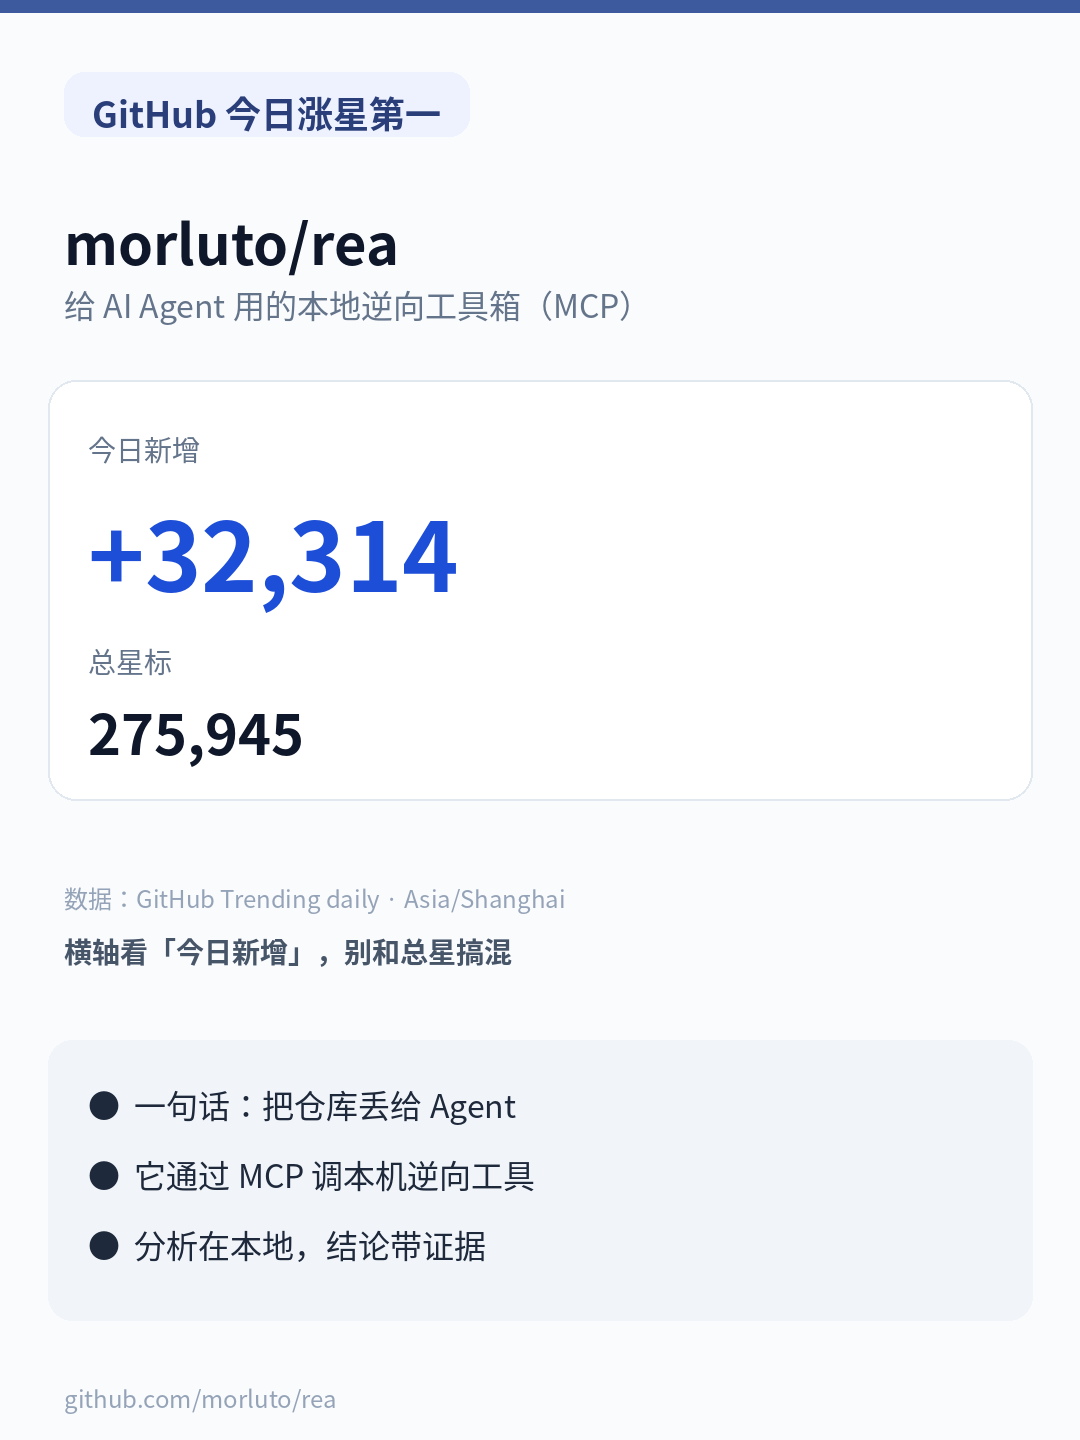
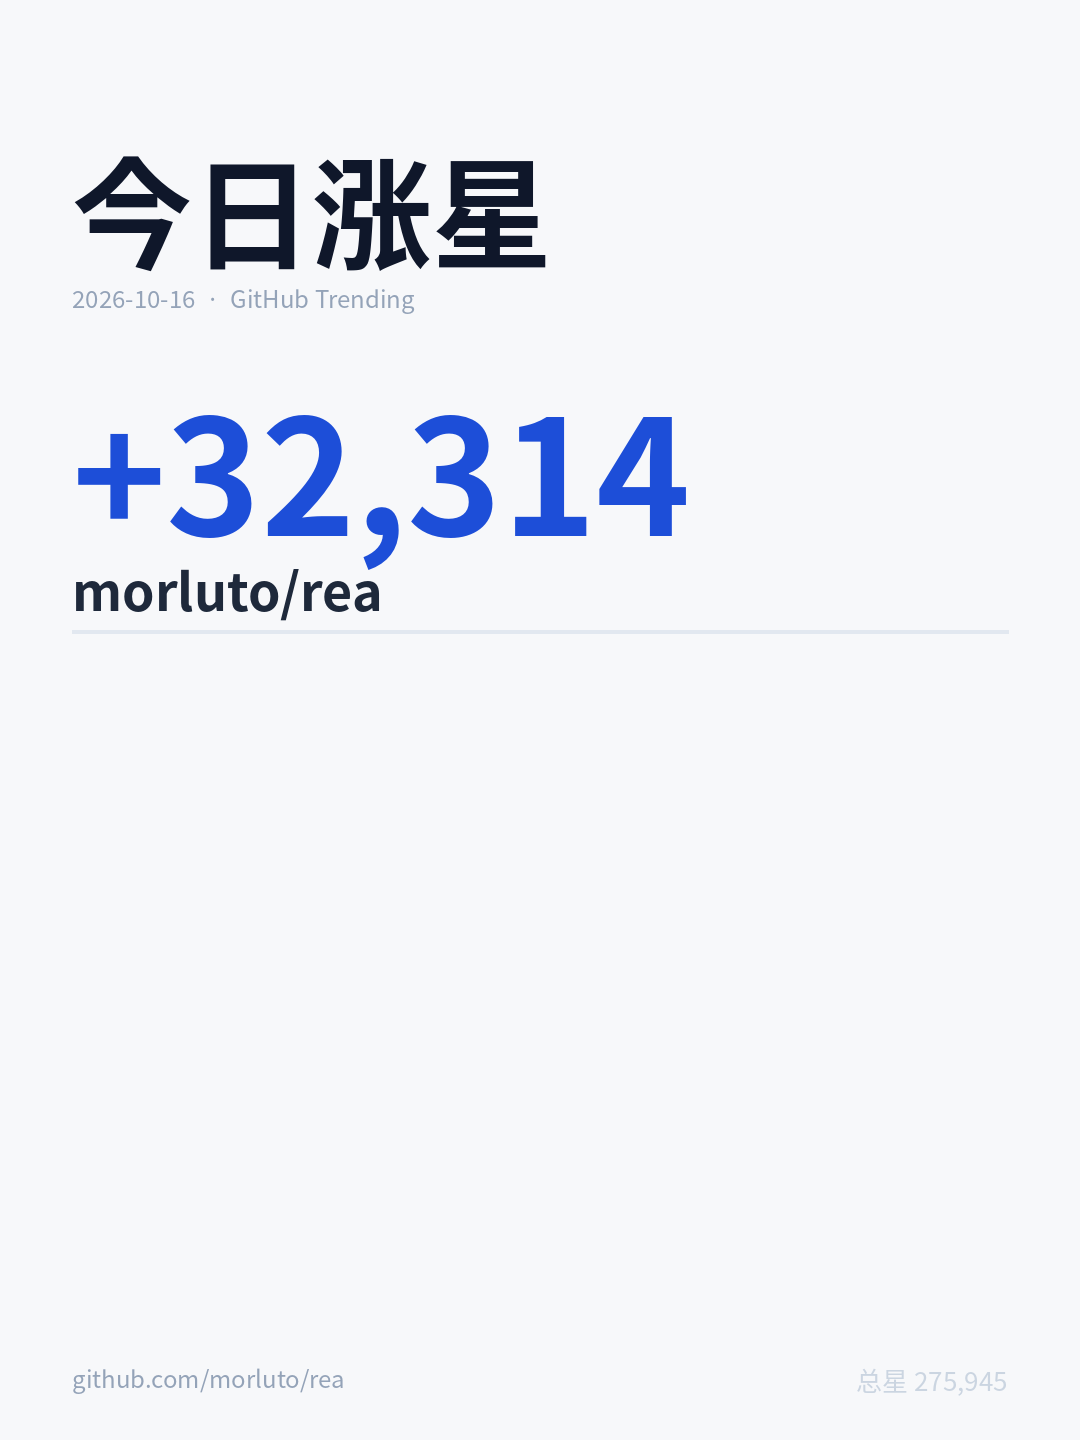
Simplify cards: bold「今日涨星」, drop helper captions
- Chart/rank: title「今日涨星」, bar labels +32k, no「不是总星」axis
- Focus: huge title + +32,314; repo smaller; faint 总星 corner only
- Keep howto/demo unchanged

diff --git a/fetch_trending_chart.py b/fetch_trending_chart.py
@@ -92,11 +92,6 @@ def format_stars(n: int) -> str:
     return f"+{n}"
 
 
-def format_today_label(n: int) -> str:
-    """Bar label: 今日 +xx (explicitly today's gain, not total stars)."""
-    return f"今日 {format_stars(n)}"
-
-
 def _rank_colors(n: int) -> list[str]:
     """Light blue → indigo gradient; top rank (index 0 before reverse) darkest."""
     # matplotlib LinearSegmentedColormap without importing colors module name clutter
@@ -159,16 +154,15 @@ def plot_chart(repos: list[dict], out_path: Path, top_n: int, title: str) -> Pat
     )
     ax.bar_label(
         bars,
-        labels=[format_today_label(v) for v in values],
-        padding=6,
-        fontsize=9,
-        color="#334155",
-        fontweight="normal",
+        labels=[format_stars(v) for v in values],
+        padding=8,
+        fontsize=11,
+        color="#0f172a",
+        fontweight="bold",
     )
 
-    # Explicitly: today's NEW stars, NOT total stars
-    ax.set_xlabel("今日新增 Stars（不是总星）", fontsize=11, color="#475569", labelpad=10)
-    ax.set_title(title, fontsize=14, fontweight="bold", color="#0f172a", pad=14, loc="left")
+    ax.set_xlabel("")
+    ax.set_title(title, fontsize=22, fontweight="bold", color="#0f172a", pad=18, loc="left")
     ax.set_xlim(0, max(values) * 1.22 if values else 1)
 
     # Thin light-gray grid on x-axis only
@@ -232,7 +226,7 @@ def main() -> int:
     from zoneinfo import ZoneInfo
 
     today = datetime.now(ZoneInfo("Asia/Shanghai")).strftime("%Y-%m-%d")
-    title = f"GitHub 今日涨星 Top · 今日新增（不是总星）  ·  {today}"
+    title = f"今日涨星  ·  {today}"
     if args.language:
         title += f"  ({args.language})"
     path = plot_chart(repos, args.output, top_n=args.top, title=title)

diff --git a/run_daily.py b/run_daily.py
@@ -170,7 +170,7 @@ def write_outputs(
 
     chart_name = "chart.png"
     chart_path = out_dir / chart_name
-    title = f"GitHub 今日涨星 Top · 今日新增（不是总星）  ·  {date}"
+    title = f"今日涨星  ·  {date}"
     if language:
         title += f"  ({language})"
     plot_chart(ranked, chart_path, top_n=top_n, title=title)
